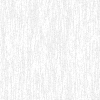
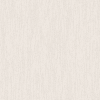
faux-page styling

diff --git a/src/views/themes/default/assets/css/compressed/global/master.css b/src/views/themes/default/assets/css/compressed/global/master.css
@@ -1,1 +1,1 @@
-@font-face{font-family:'Fanwood';src:url("../../../fonts/fanwood/webfonts/fanwood_text-webfont.eot");src:url("../../../fonts/fanwood/webfonts/fanwood_text-webfont.eot?#iefix") format("embedded-opentype"),url("../../../fonts/fanwood/webfonts/fanwood_text-webfont.woff") format("woff"),url("../../../fonts/fanwood/webfonts/fanwood_text-webfont.ttf") format("truetype"),url("../../../fonts/fanwood/webfonts/fanwood_text-webfont.svg#fanwood") format("svg");font-weight:normal;font-style:normal}@font-face{font-family:'Fanwood';src:url("../../../fonts/fanwood/webfonts/fanwood_text_italic-webfont.eot");src:url("../../../fonts/fanwood/webfonts/fanwood_text_italic-webfont.eot?#iefix") format("embedded-opentype"),url("../../../fonts/fanwood/webfonts/fanwood_text_italic-webfont.woff") format("woff"),url("../../../fonts/fanwood/webfonts/fanwood_text_italic-webfont.ttf") format("truetype"),url("../../../fonts/fanwood/webfonts/fanwood_text_italic-webfont.svg#fanwood") format("svg");font-weight:normal;font-style:italic}body{font-size:18px;font-family:"Fanwood",Serif}h1{font-size:1.7em;font-family:"Fanwood",Serif}@media (-webkit-min-device-pixel-ratio: 1.5), (min-resolution: 160dpi){body{font-size:18px}}@media only screen and (min-device-width: 320px) and (max-device-width: 480px){body{font-size:12px}}body{background:url(../../../images/backgrounds/body.png?v=1);color:#381a1c}a{color:#5e7b96}a:hover{text-decoration:none}h1{color:#381a1c}#page{background:#e5d9cd;background:rgba(229,217,205,0.6)}#content{background:#e1cdb5;background:rgba(225,205,181,0.6)}html,body{height:100%}#page{width:100%;height:100%;margin:0}#content{width:96%;padding:0 2%;max-width:960px;margin:0 auto;min-height:100%}h1{margin:0;padding:0.6em 0 0 0}p{margin:0;padding:0.6em 0 0 0}
+@font-face{font-family:'Fanwood';src:url("../../../fonts/fanwood/webfonts/fanwood_text-webfont.eot");src:url("../../../fonts/fanwood/webfonts/fanwood_text-webfont.eot?#iefix") format("embedded-opentype"),url("../../../fonts/fanwood/webfonts/fanwood_text-webfont.woff") format("woff"),url("../../../fonts/fanwood/webfonts/fanwood_text-webfont.ttf") format("truetype"),url("../../../fonts/fanwood/webfonts/fanwood_text-webfont.svg#fanwood") format("svg");font-weight:normal;font-style:normal}@font-face{font-family:'Fanwood';src:url("../../../fonts/fanwood/webfonts/fanwood_text_italic-webfont.eot");src:url("../../../fonts/fanwood/webfonts/fanwood_text_italic-webfont.eot?#iefix") format("embedded-opentype"),url("../../../fonts/fanwood/webfonts/fanwood_text_italic-webfont.woff") format("woff"),url("../../../fonts/fanwood/webfonts/fanwood_text_italic-webfont.ttf") format("truetype"),url("../../../fonts/fanwood/webfonts/fanwood_text_italic-webfont.svg#fanwood") format("svg");font-weight:normal;font-style:italic}body{font-size:18px;font-family:"Fanwood",Serif}h1{font-size:1.7em;font-family:"Fanwood",Serif}@media (-webkit-min-device-pixel-ratio: 1.5), (min-resolution: 160dpi){body{font-size:18px}}@media only screen and (min-device-width: 320px) and (max-device-width: 480px){body{font-size:12px}}body{color:#381a1c;background:url(../../../images/backgrounds/body.png?v=1)}a{color:#5e7b96}a:hover{text-decoration:none}h1{color:#381a1c}#page{background:url(../../../images/backgrounds/page.png?v=1);border-width:15px 15px 15px 15px;-moz-border-image:url("../../../images/borders/page.png?v=1") 15 15 15 15 repeat;-webkit-border-image:url("../../../images/borders/page.png?v=1") 15 15 15 15 repeat;border-image:url("../../../images/borders/page.png?v=1") 15 15 15 15 repeat;background-clip:padding-box}html,body{height:100%}#page{width:82%;padding:0 2%;max-width:960px;margin:0 auto;min-height:94%}h1{margin:0;padding:0.6em 0 0 0}p{margin:0;padding:0.6em 0 0 0}

diff --git a/src/views/themes/default/assets/css/uncompressed/global/master.css b/src/views/themes/default/assets/css/uncompressed/global/master.css
@@ -27,8 +27,8 @@ h1 {
   body {
     font-size: 12px; } }
 body {
-  background: url(../../../images/backgrounds/body.png?v=1);
-  color: #381a1c; }
+  color: #381a1c;
+  background: url(../../../images/backgrounds/body.png?v=1); }
 
 a {
   color: #5e7b96; }
@@ -39,27 +39,22 @@ h1 {
   color: #381a1c; }
 
 #page {
-  background: #e5d9cd;
-  background: rgba(229, 217, 205, 0.6); }
-
-#content {
-  background: #e1cdb5;
-  background: rgba(225, 205, 181, 0.6); }
+  background: url(../../../images/backgrounds/page.png?v=1);
+  border-width: 15px 15px 15px 15px;
+  -moz-border-image: url("../../../images/borders/page.png?v=1") 15 15 15 15 repeat;
+  -webkit-border-image: url("../../../images/borders/page.png?v=1") 15 15 15 15 repeat;
+  border-image: url("../../../images/borders/page.png?v=1") 15 15 15 15 repeat;
+  background-clip: padding-box; }
 
 html, body {
   height: 100%; }
 
 #page {
-  width: 100%;
-  height: 100%;
-  margin: 0; }
-
-#content {
-  width: 96%;
+  width: 82%;
   padding: 0 2%;
   max-width: 960px;
   margin: 0 auto;
-  min-height: 100%; }
+  min-height: 94%; }
 
 h1 {
   margin: 0;

diff --git a/src/views/themes/default/sass/global/partials/_appearance.sass b/src/views/themes/default/sass/global/partials/_appearance.sass
@@ -2,9 +2,15 @@
   background: $color /* The Fallback */
   background: rgba($color, $opacity)
 
+@mixin border_image($url, $top, $right, $bottom, $left)
+  -moz-border-image: url($url) $top $right $bottom $left repeat
+  -webkit-border-image: url($url) $top $right $bottom $left repeat
+  border-image: url($url) $top $right $bottom $left repeat
+  background-clip: padding-box
+
 body
-  background: url(#{$base_path}/images/backgrounds/body.png?v=1)
   color: $normal_text
+  background: url(#{$base_path}/images/backgrounds/body.png?v=1)
 
 a
   color: $link_color
@@ -15,7 +21,6 @@ h1
   color: $h1_color
 
 #page
-  @include background-opacity($page_background)
-
-#content
-  @include background-opacity($content_background)
+  background: url(#{$base_path}/images/backgrounds/page.png?v=1)
+  border-width: 15px 15px 15px 15px
+  @include border_image("#{$base_path}/images/borders/page.png?v=1", 15, 15, 15, 15)

diff --git a/src/views/themes/default/sass/global/partials/_layout.sass b/src/views/themes/default/sass/global/partials/_layout.sass
@@ -2,16 +2,11 @@ html, body
   height: 100%
 
 #page
-  width: 100%
-  height: 100%
-  margin: 0
-
-#content
-  width: 96%
+  width: 82%
   padding: 0 2%
   max-width: 960px
   margin: 0 auto
-  min-height: 100%
+  min-height: 94%
 
 h1
   margin: 0

diff --git a/src/views/themes/default/layouts/master.blade.php b/src/views/themes/default/layouts/master.blade.php
@@ -24,9 +24,7 @@
 		<![endif]-->
 
 		<div id='page'>
-			<div id='content'>
 				@yield('content')
-			</div>
 		</div>
 
 		@section('footer_scripts')
